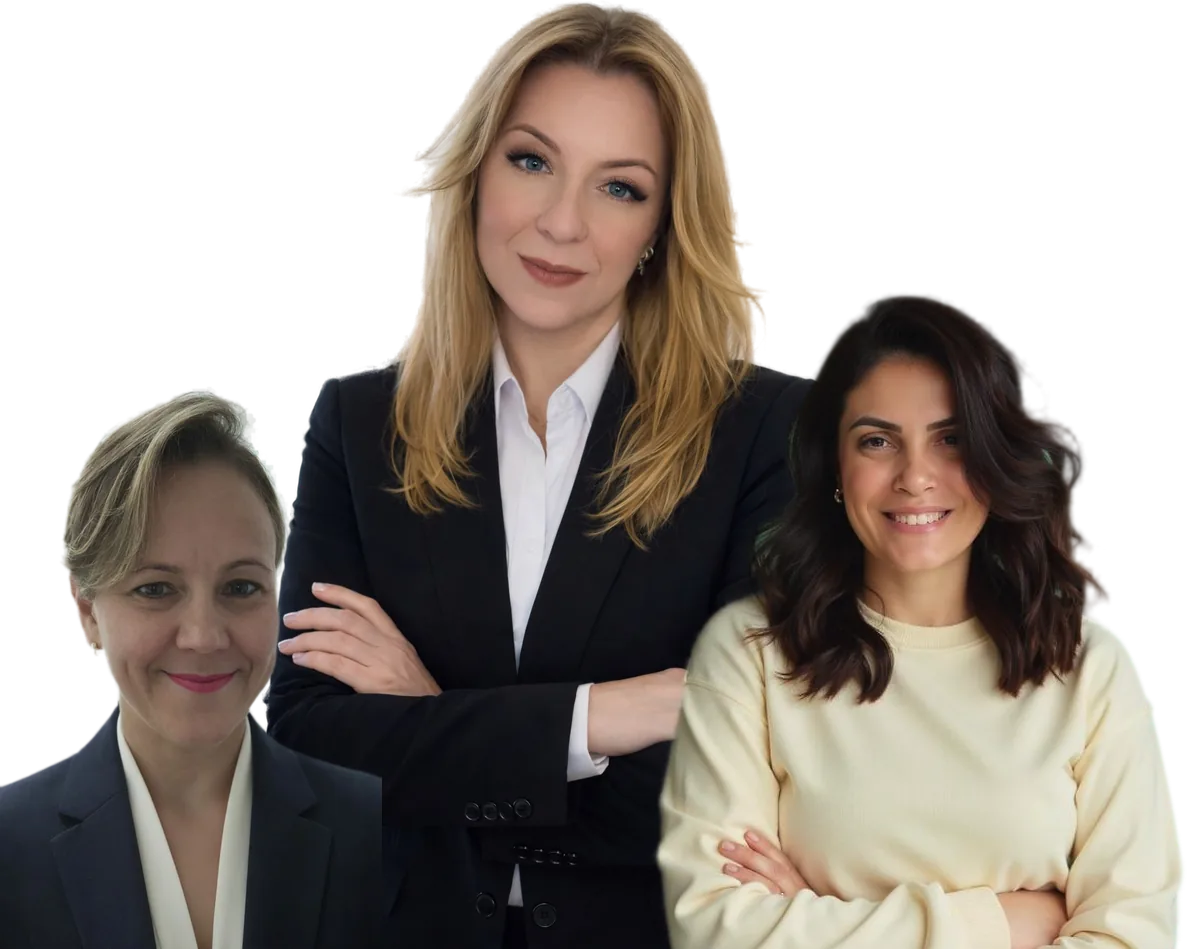
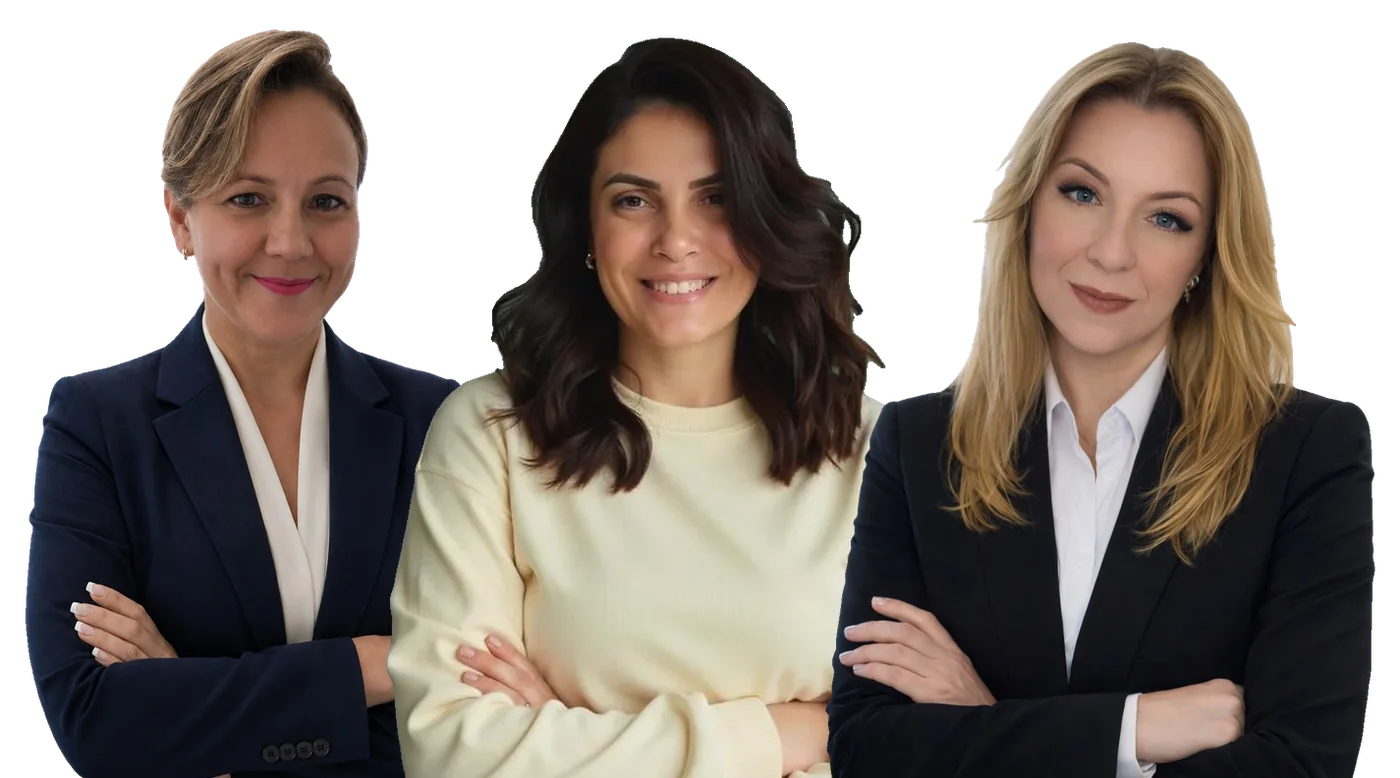
Update hero image dimensions, remove role descriptions, and enhance bios for facilitators. Adjust CSS for responsive design and update contact information. Replace several image assets.

diff --git a/docs/index.html b/docs/index.html
@@ -62,7 +62,7 @@
         <div class="hero__media">
           <picture>
             <source media="(max-width: 767px)" srcset="assets/trio-800.webp">
-            <img src="assets/trio.webp" alt="Deise Engel, Jéssica Araujo e Marcela Tarifa, facilitadoras do workshop" class="hero__photo" width="1189" height="949" fetchpriority="high">
+            <img src="assets/trio.webp" alt="Deise Engel, Marcela Tarifa e Jéssica Araujo, facilitadoras do workshop" class="hero__photo" width="1400" height="707" fetchpriority="high">
           </picture>
         </div>
       </div>
@@ -186,7 +186,6 @@
               <img src="assets/deise.webp" alt="Deise Engel" class="person__photo" width="640" height="800" loading="lazy">
             </div>
             <h3 class="person__name">Deise Engel</h3>
-            <p class="person__role" data-bind="cargoDeise">[Cargo — Descomplicouti]</p>
             <p class="person__bio" data-bind="bioDeise">[Bio curta: 2 a 3 linhas sobre trajetória e especialidade.]</p>
           </article>
 
@@ -195,7 +194,6 @@
               <img src="assets/jessica.webp" alt="Jéssica Araujo" class="person__photo" width="640" height="800" loading="lazy">
             </div>
             <h3 class="person__name">Jéssica Araujo</h3>
-            <p class="person__role" data-bind="cargoJessica">[Cargo — Descomplicouti]</p>
             <p class="person__bio" data-bind="bioJessica">[Bio curta: 2 a 3 linhas sobre trajetória e especialidade.]</p>
           </article>
 
@@ -204,7 +202,6 @@
               <img src="assets/marcela.webp" alt="Marcela Tarifa" class="person__photo" width="640" height="800" loading="lazy">
             </div>
             <h3 class="person__name">Marcela Tarifa</h3>
-            <p class="person__role" data-bind="cargoMarcela">[Cargo — Level UP]</p>
             <p class="person__bio" data-bind="bioMarcela">[Bio curta: 2 a 3 linhas sobre trajetória e especialidade.]</p>
           </article>
 

diff --git a/docs/script.js b/docs/script.js
@@ -23,18 +23,15 @@ const CONFIG = {
   vagas: "[XX]",                        // ex.: "40"
 
   /* --- Quem conduz ------------------------------------------------------ */
-  cargoDeise: "[Cargo — Descomplicouti]",
-  bioDeise: "[Bio curta: 2 a 3 linhas sobre trajetória e especialidade.]",
-  cargoJessica: "[Cargo — Descomplicouti]",
-  bioJessica: "[Bio curta: 2 a 3 linhas sobre trajetória e especialidade.]",
-  cargoMarcela: "[Cargo — Level UP]",
-  bioMarcela: "[Bio curta: 2 a 3 linhas sobre trajetória e especialidade.]",
+  bioDeise: "Coach, Consultora, Sócia da Descomplicouti e Proprietária do espaço cultural Burkadaguti",
+  bioJessica: "Sócia fundadora na Descomplicouti | Neuroespecialista comportamental | Professora de Inteligência Emocional | Master Coach | Palestrante | Consultora | Treinadora de Líderes e Times",
+  bioMarcela: "Especialista em Gestão Comercial e processos, Fundadora & CEO da empresa @levelUP",
 
   /* --- Rodapé / contato ------------------------------------------------- */
-  email: "",                            // ex.: "contato@empresa.com.br"
+  email: "comercial@consultorialevelup.com.br",
   whatsapp: "",                         // só números, com DDI: ex. "5511999999999"
   instagram: "",                        // sem @: ex. "descomplicouti"
-  razaoSocial: "[RAZÃO SOCIAL · CNPJ 00.000.000/0000-00]",
+  razaoSocial: "Level UP LTDA · CNPJ 48.792.515/0001-06",
   privacidadeUrl: "",                   // URL da política de privacidade
 };
 

diff --git a/docs/styles.css b/docs/styles.css
@@ -251,10 +251,11 @@ section { scroll-margin-top: calc(var(--header-h) + 16px); }
 
 .hero__media { position: relative; }
 .hero__photo {
-  width: min(520px, 88%);
-  margin-inline: auto;
-  -webkit-mask-image: linear-gradient(to bottom, #000 78%, transparent 100%);
-  mask-image: linear-gradient(to bottom, #000 78%, transparent 100%);
+  /* faixa horizontal: sangra até as bordas da tela no mobile */
+  width: calc(100% + 40px);
+  margin-inline: -20px;
+  -webkit-mask-image: linear-gradient(to bottom, #000 86%, transparent 100%);
+  mask-image: linear-gradient(to bottom, #000 86%, transparent 100%);
 }
 
 /* ==========================================================================
@@ -725,7 +726,10 @@ section { scroll-margin-top: calc(var(--header-h) + 16px); }
     gap: 24px;
   }
   .hero__content { padding-bottom: clamp(48px, 6vw, 80px); }
-  .hero__photo { width: 100%; max-width: 560px; margin-inline: 0 auto; }
+  /* a foto das três é uma faixa horizontal: sangra até a borda da janela
+     para ganhar altura sem roubar largura do headline */
+  .hero__media { margin-right: clamp(-160px, calc((100vw - var(--container)) / -2), 0px); }
+  .hero__photo { width: 100%; max-width: none; margin-inline: 0; }
 
   .facts__strip { grid-template-columns: repeat(4, 1fr); }
   .facts__item {
